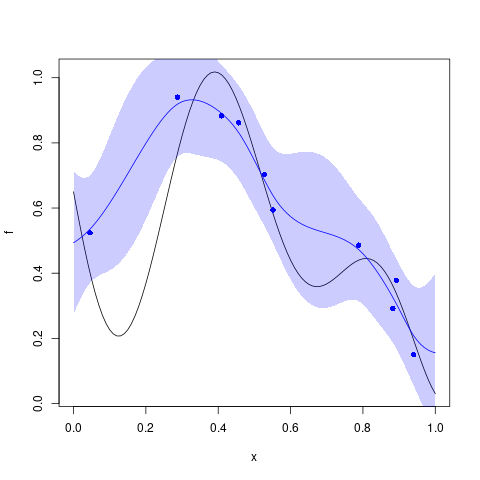
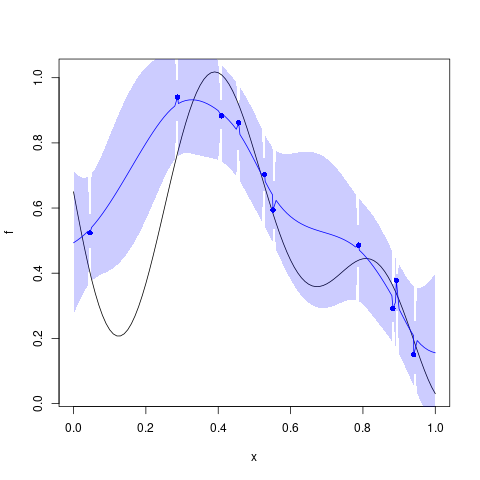
see nugget predict interpolate

diff --git a/docs/source/functions/update.NuggetKriging.md b/docs/source/functions/update.NuggetKriging.md
@@ -45,7 +45,7 @@ points(X, y, col = "blue")
 
 k <- NuggetKriging(y, X, "matern3_2")
 
-x <- seq(from = 0, to = 1, length.out = 101)
+x <- sort(c(X,seq(from = 0, to = 1, length.out = 101))) # include design points to see interpolation
 p <- k$predict(x)
 lines(x, p$mean, col = "blue")
 polygon(c(x, rev(x)), c(p$mean - 2 * p$stdev, rev(p$mean + 2 * p$stdev)), border = NA, col = rgb(0, 0, 1, 0.2))
@@ -57,7 +57,7 @@ points(newX, newy, col = "red")
 ## change the content of the object 'k'
 k$update(newy, newX)
 
-x <- seq(from = 0, to = 1, length.out = 101)
+x <- sort(c(X,newX,seq(from = 0, to = 1, length.out = 101))) # include design points to see interpolation
 p2 <- k$predict(x)
 lines(x, p2$mean, col = "red")
 polygon(c(x, rev(x)), c(p2$mean - 2 * p2$stdev, rev(p2$mean + 2 * p2$stdev)), border = NA, col = rgb(1, 0, 0, 0.2))

diff --git a/docs/source/functions/predict.NuggetKriging.md b/docs/source/functions/predict.NuggetKriging.md
@@ -60,7 +60,7 @@ points(X, y, col = "blue", pch = 16)
 
 k <- NuggetKriging(y, X, "matern3_2")
 
-x <-seq(from = 0, to = 1, length.out = 101)
+x <- sort(c(X,seq(from = 0, to = 1, length.out = 101))) # include design points to see interpolation
 p <- k$predict(x)
 
 lines(x, p$mean, col = "blue")
